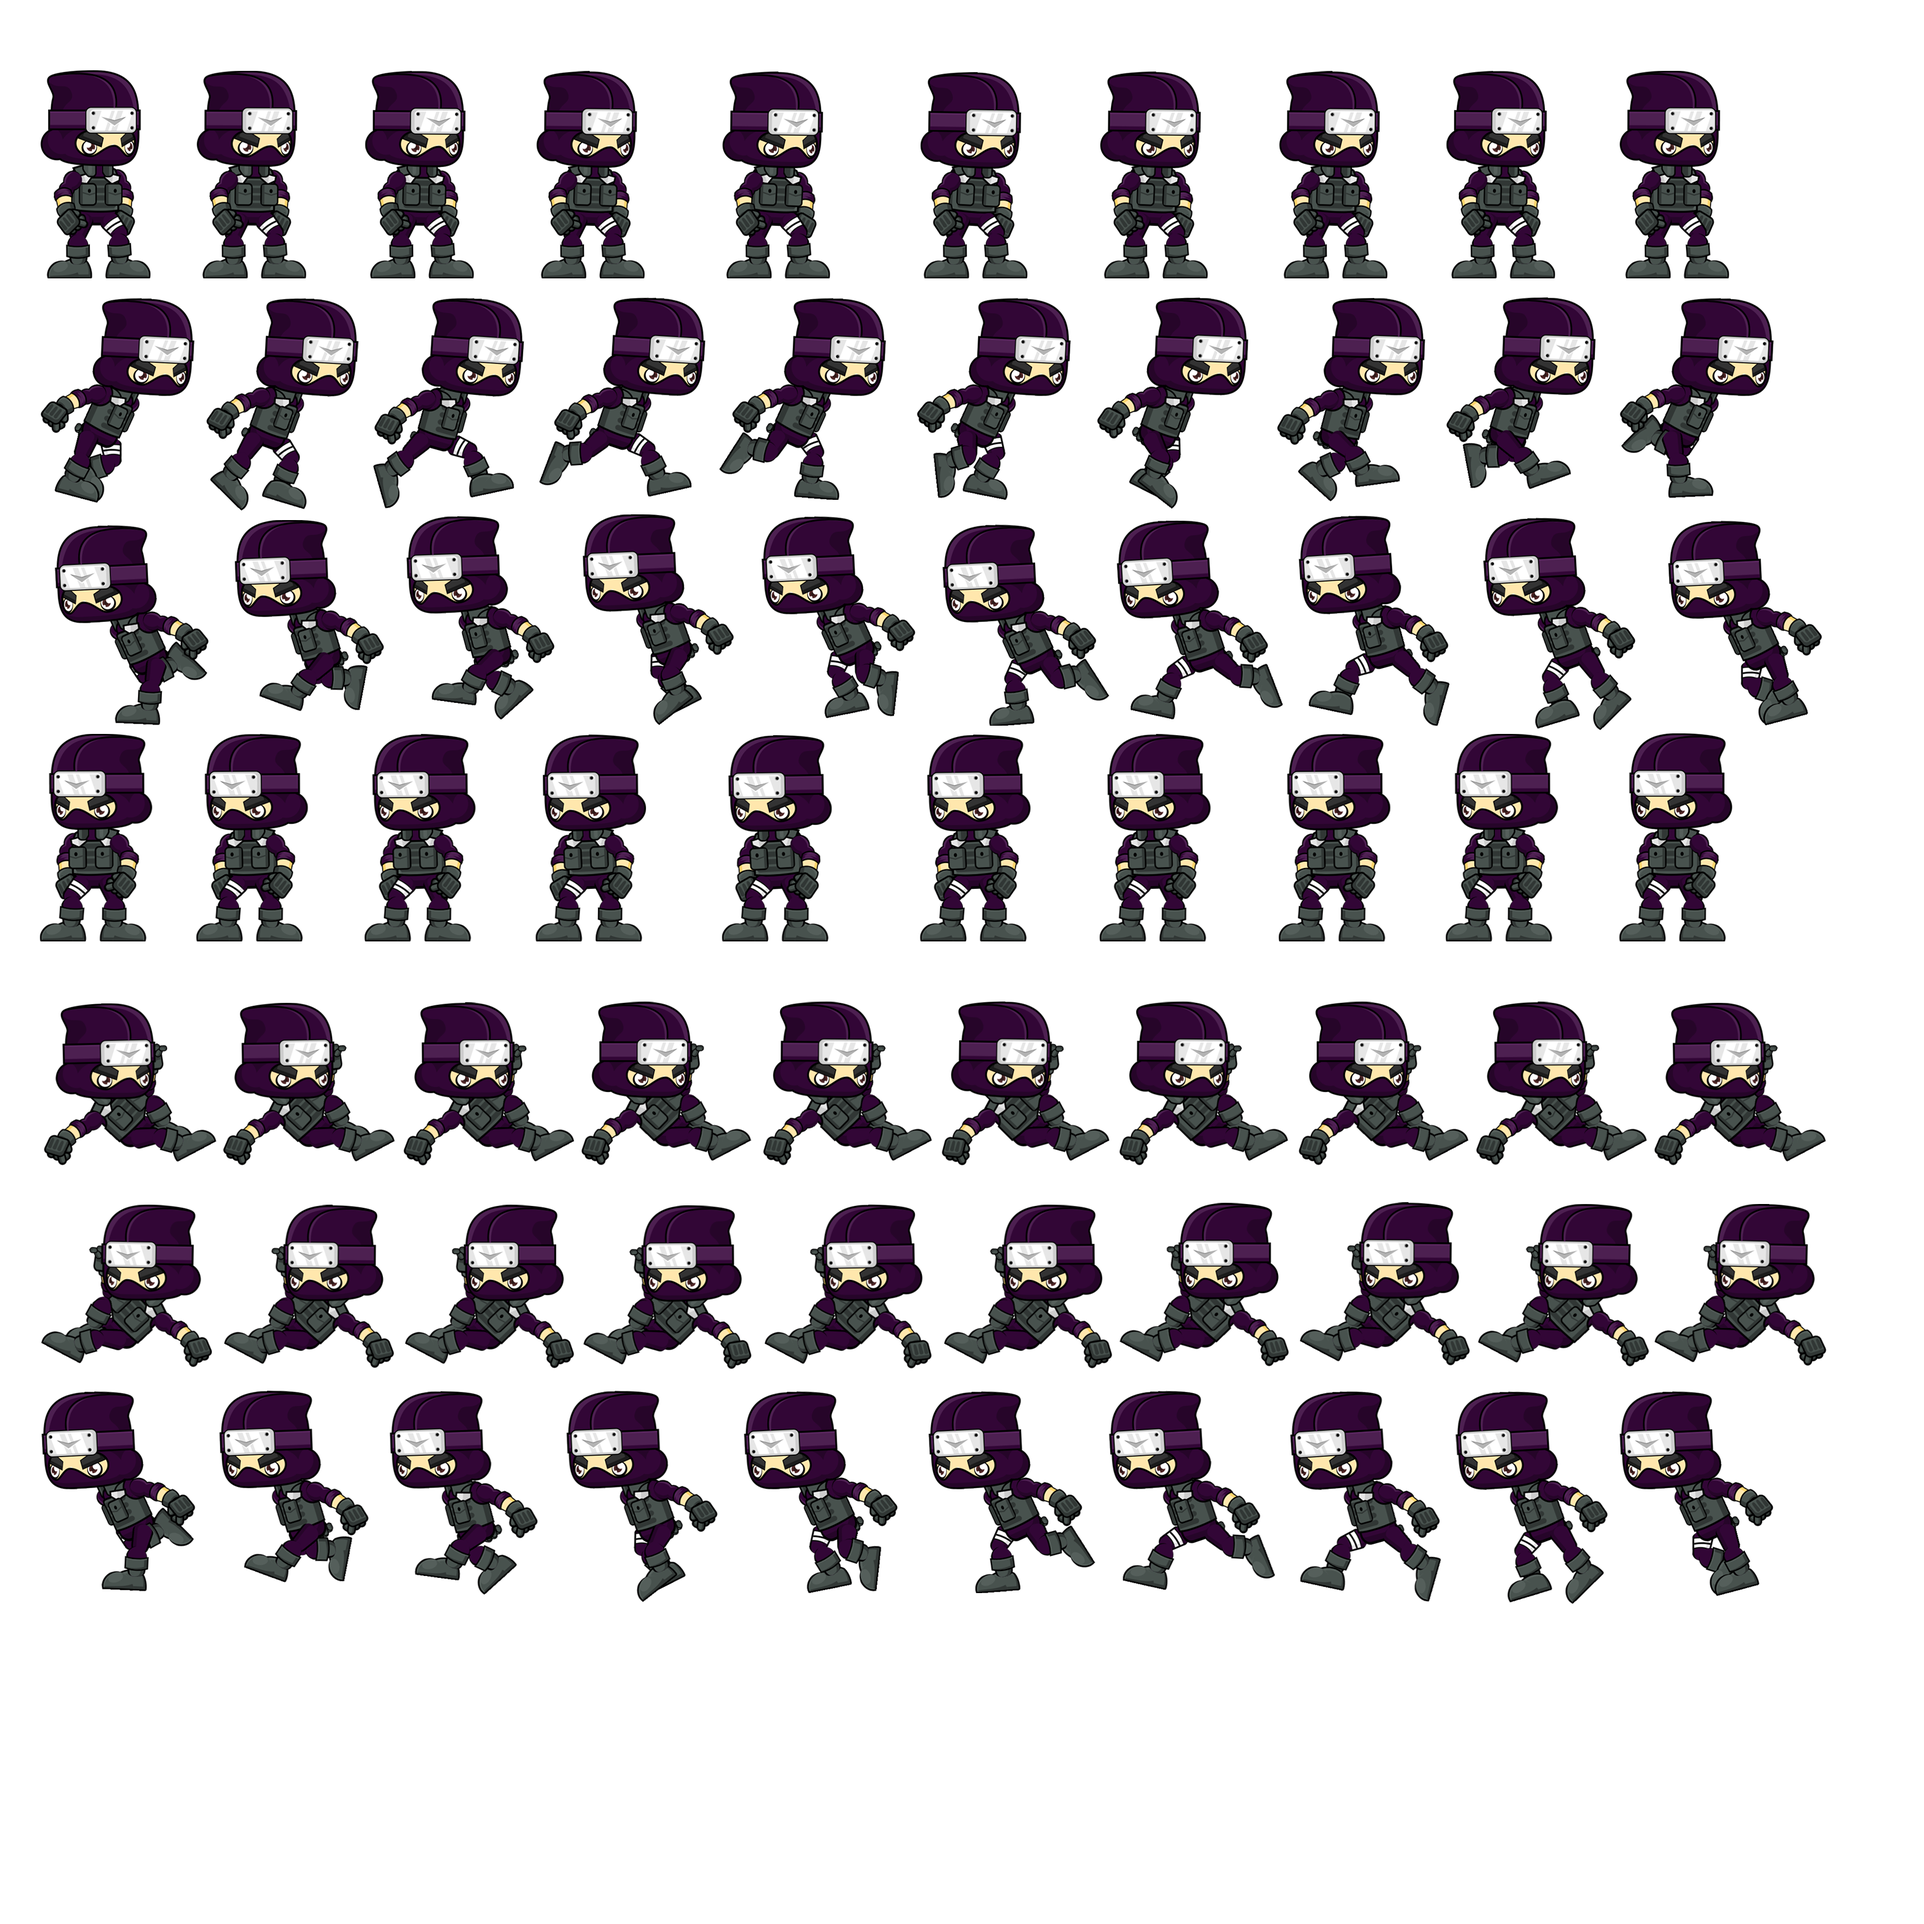
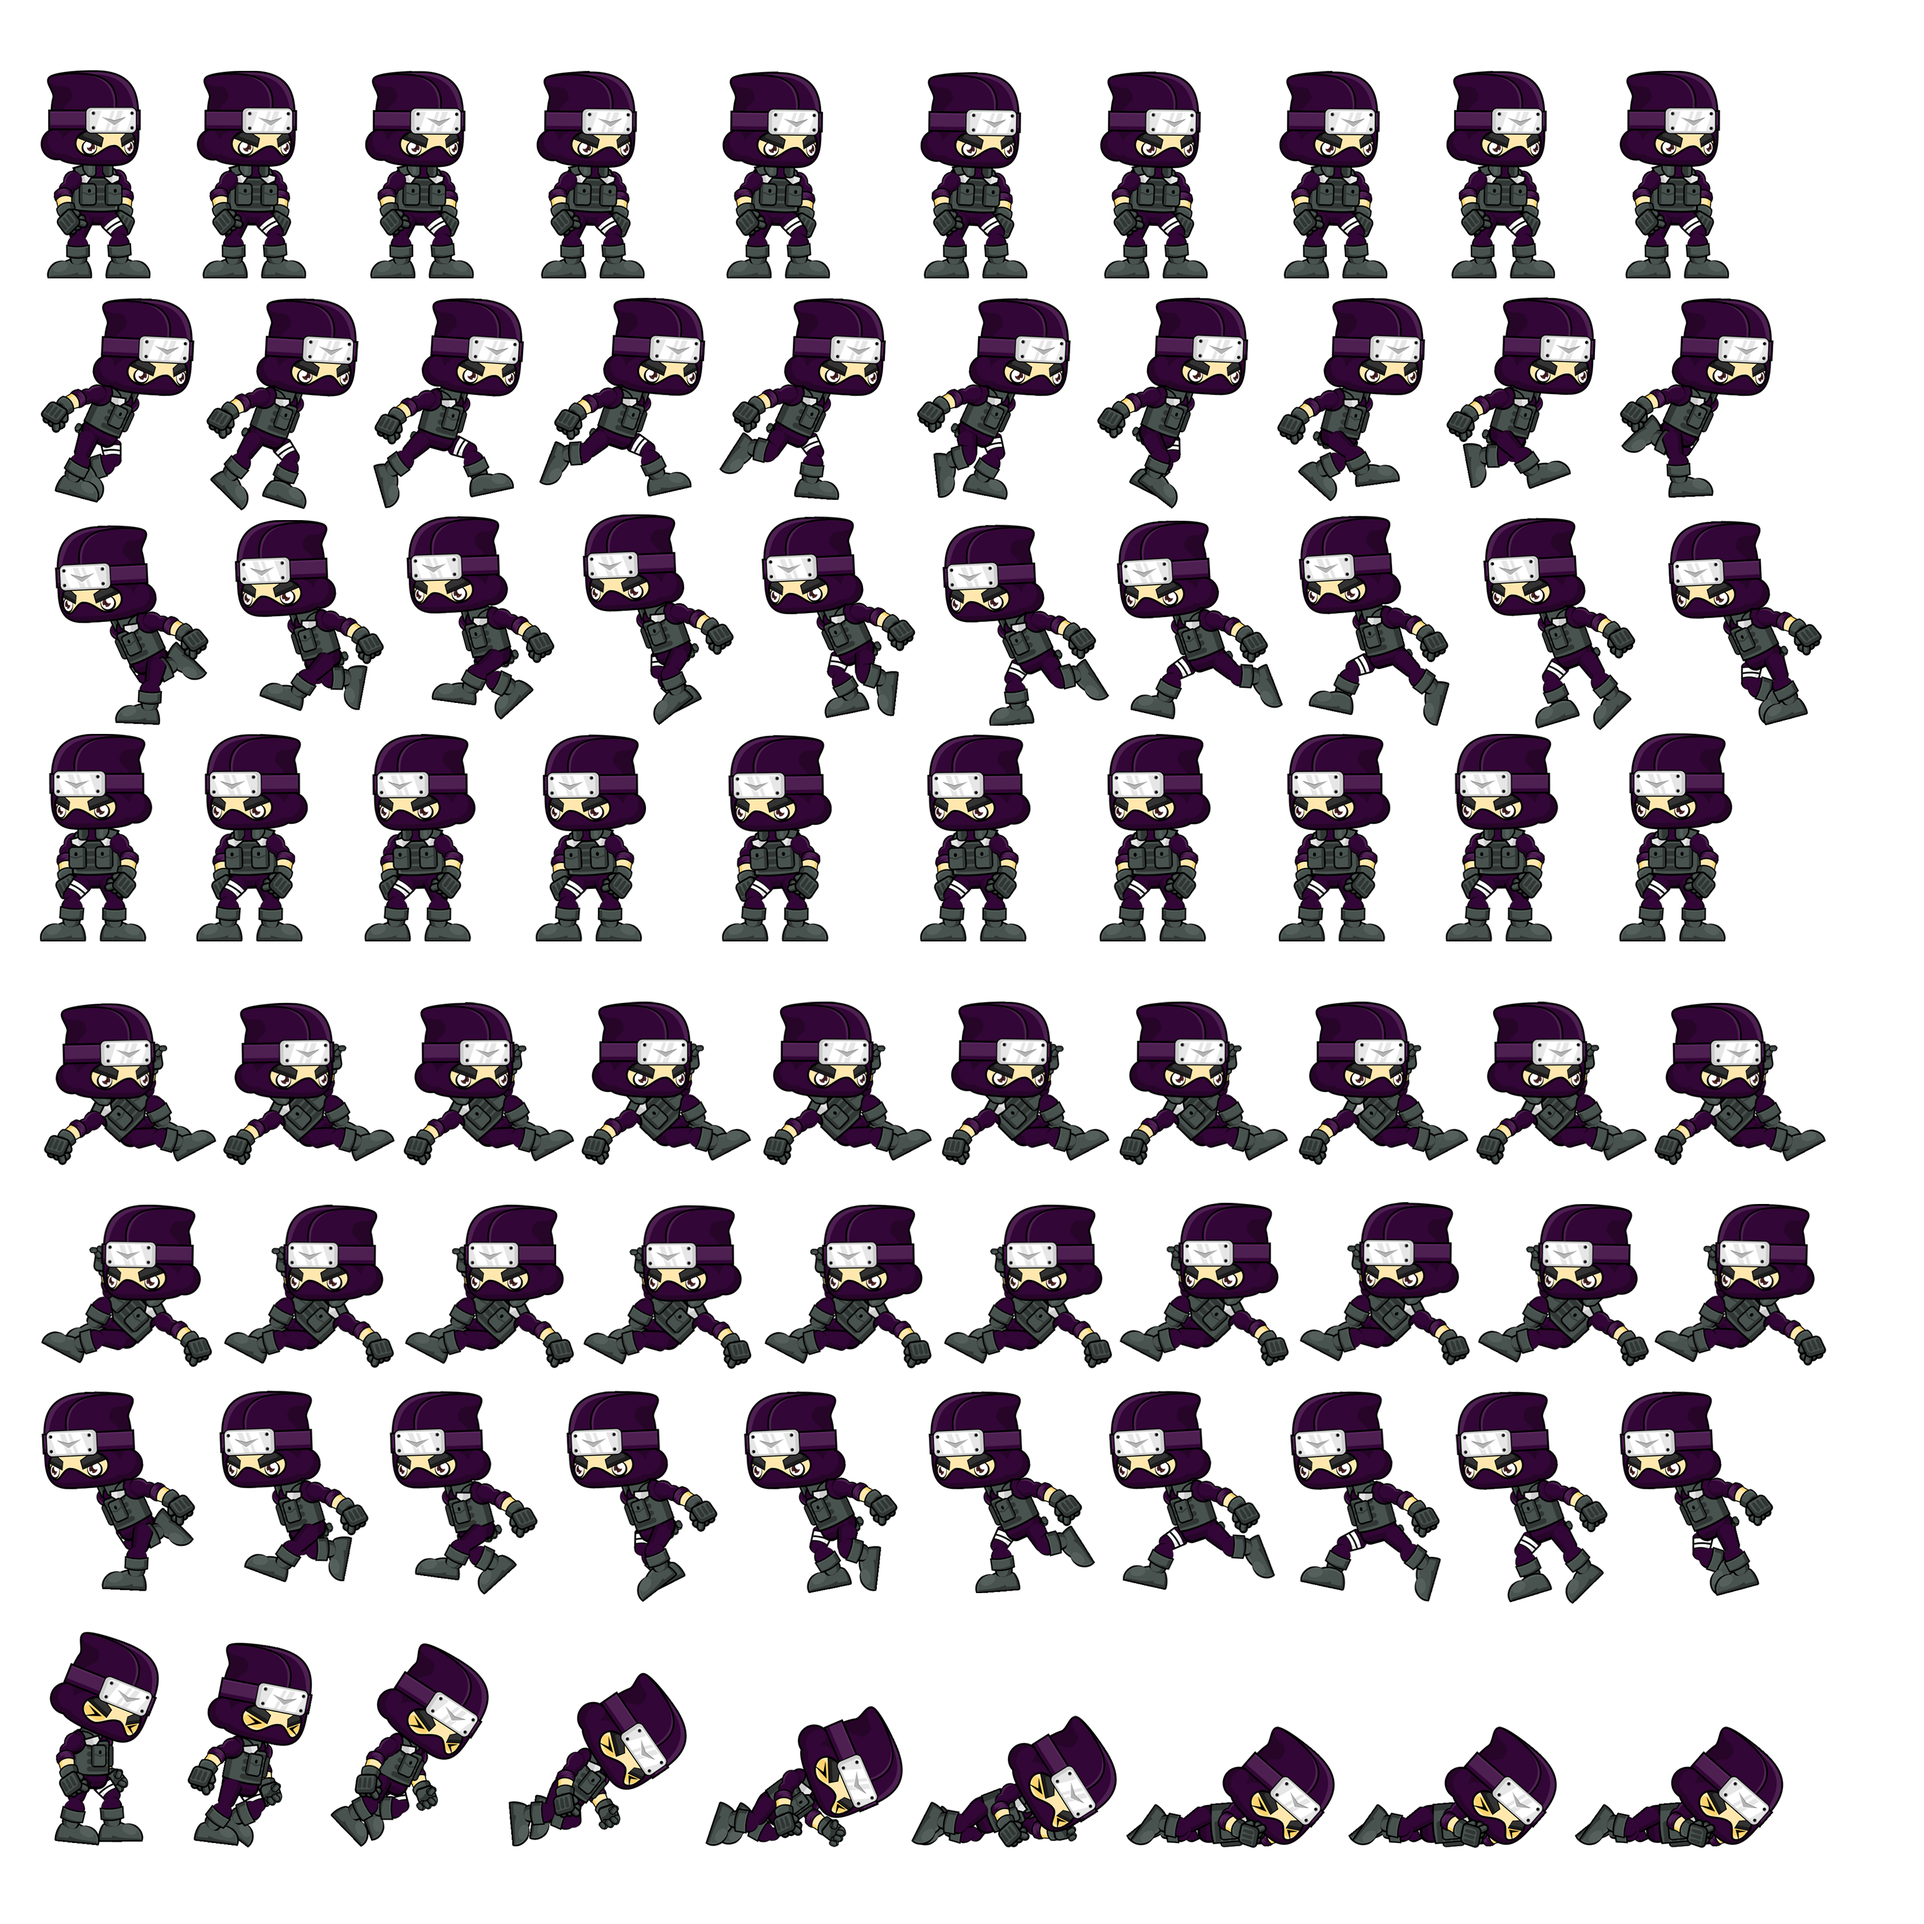
Death animation implemented

Changed region(s): [[0.2499, 0.8747, 0.9372, 0.9684], [0.0312, 0.8435, 0.2499, 0.9684]]

diff --git a/Assigment_1/Motor2D/j1Player.cpp b/Assigment_1/Motor2D/j1Player.cpp
@@ -142,7 +142,7 @@ j1Player::j1Player():j1Module()
 
 	//SLIDE LEFT----------------------------------------------------
 	
-		slide_left.PushBack({ 65,1840,283,320 });
+	slide_left.PushBack({ 65,1840,283,320 });
 	slide_left.PushBack({ 347,1840,283,320 });
 	slide_left.PushBack({ 632,1840,283,320 });
 	slide_left.PushBack({ 913,1840,283,320 });
@@ -155,7 +155,19 @@ j1Player::j1Player():j1Module()
 
 	slide_left.loop = true;
 	slide_left.speed = 0.5f;
-	
+
+	//Death------------------------------------------------------------
+	death.PushBack({ 76,2574,220,346 });
+	death.PushBack({ 296,2574,220,346 });
+	death.PushBack({ 513,2574,274,346 });
+	death.PushBack({ 786,2574,314,346 });
+	death.PushBack({ 1099,2574,332,346 });
+	death.PushBack({ 1430,2574,340,346 });
+	death.PushBack({ 1769,2574,349,346 });
+	death.PushBack({ 2117,2574,349,346 });
+	death.PushBack({ 2468,2574,349,346 });
+	death.loop = true;
+	death.speed = 0.05f;
 
 }
 
@@ -327,6 +339,24 @@ bool j1Player::PostUpdate()
 		{
 			current_animation = &idle_left;
 		}
+	}
+	//DEATH ANIMATION TEST
+	if (App->input->GetKey(SDL_SCANCODE_S) == KEY_REPEAT)
+	{
+			if (position.x < 25600)
+			{
+				speed = (velocity + acceleration);
+				position.x += speed;
+				Acceleration_Method();
+			}
+
+
+			if (current_animation != &right && !Jump)
+			{
+				right.Reset();
+				current_animation = &death;
+				player_last_direction = DEATH;
+			}
 	}
 	//JUMP_ONPLACE----------------------------------------------
 	if (App->input->GetKey(SDL_SCANCODE_SPACE) == KEY_DOWN && !fall && !dead)

diff --git a/Assigment_1/Motor2D/j1Player.h b/Assigment_1/Motor2D/j1Player.h
@@ -26,7 +26,8 @@ class j1Player : public j1Module
 		UPRIGHT,
 		UPLEFT,
 		DOWNRIGHT,
-		DOWNLEFT
+		DOWNLEFT,
+		DEATH
 	};
 
 public:
@@ -62,6 +63,7 @@ public:
 	Animation		jump_left;
 	Animation		slide_right;
 	Animation		slide_left;
+	Animation		death;
 
 	Collider*		collider_feet;
 	Collider*		collider_player;
@@ -83,7 +85,7 @@ public:
 	
 	bool			Jump = false;
 	bool			fall = false;
-	bool			dead=false;
+	bool			dead = false;
 
 	
 
